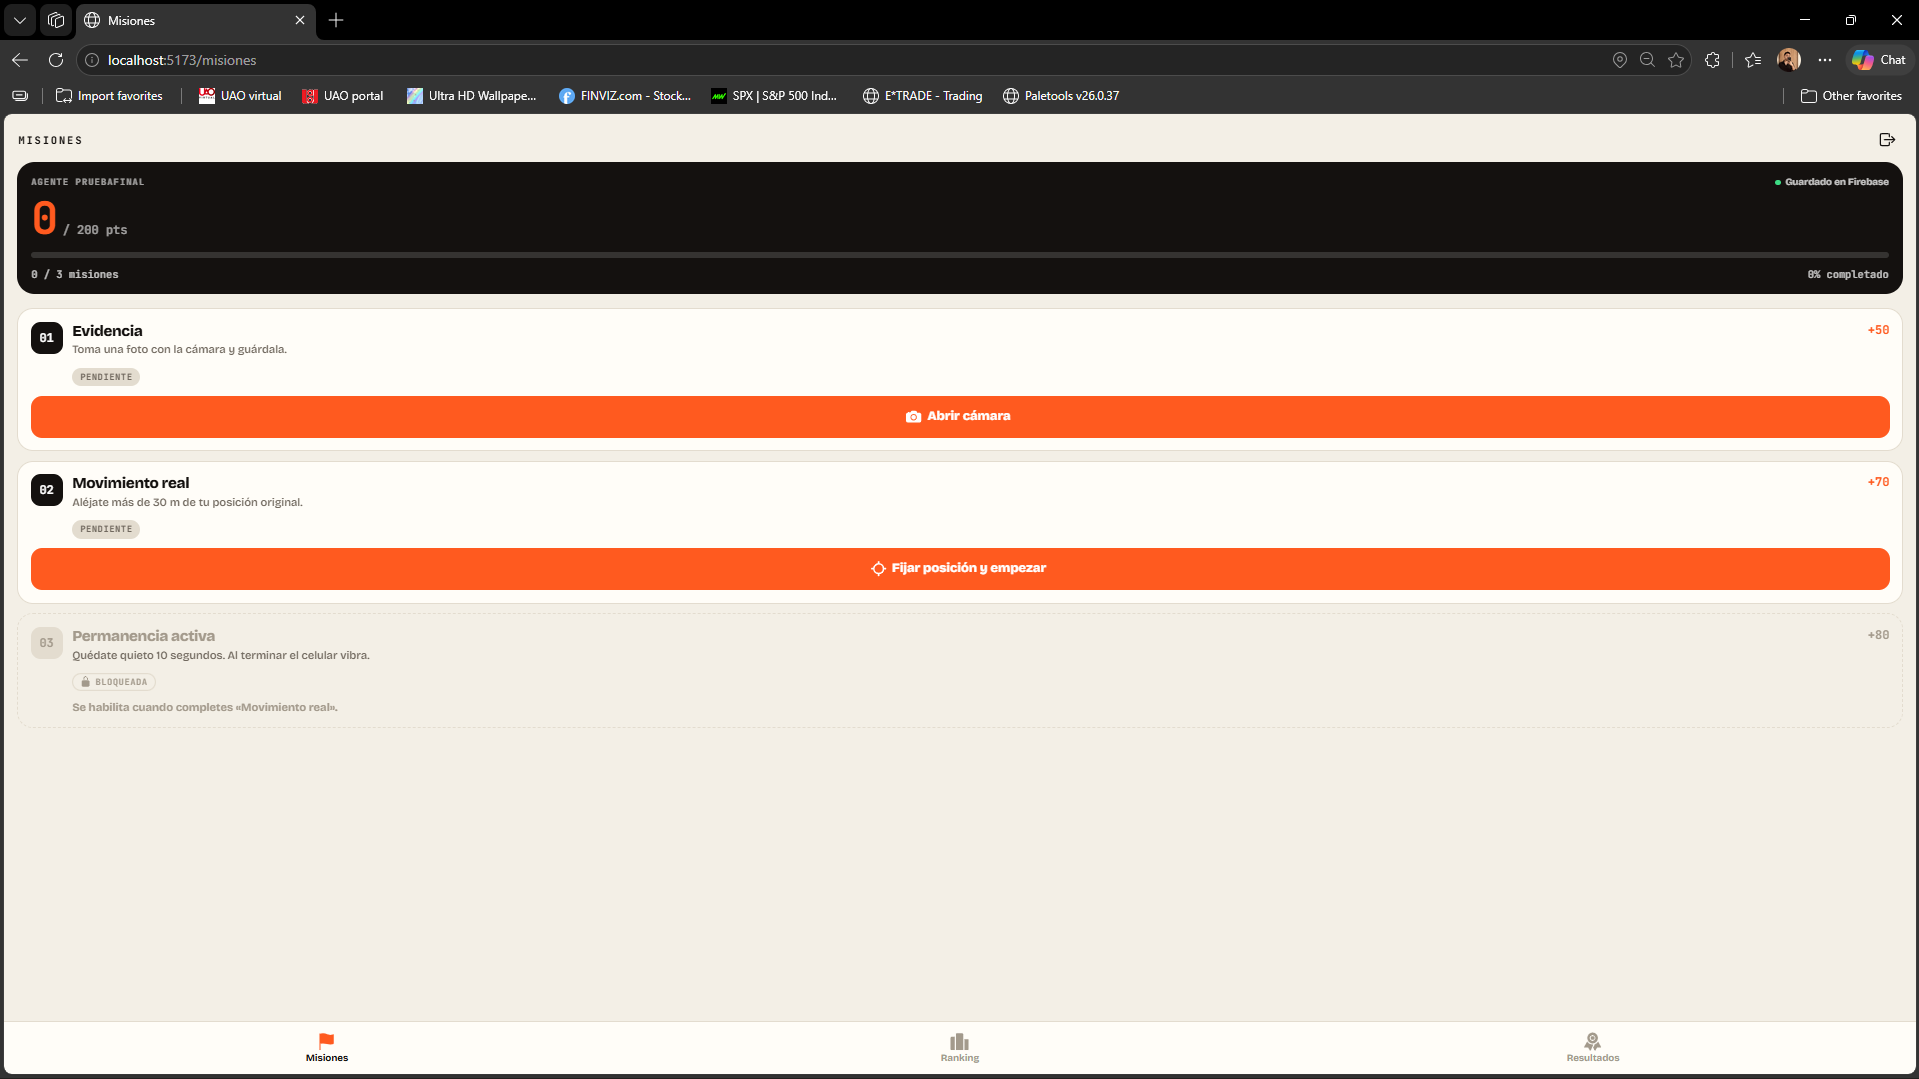
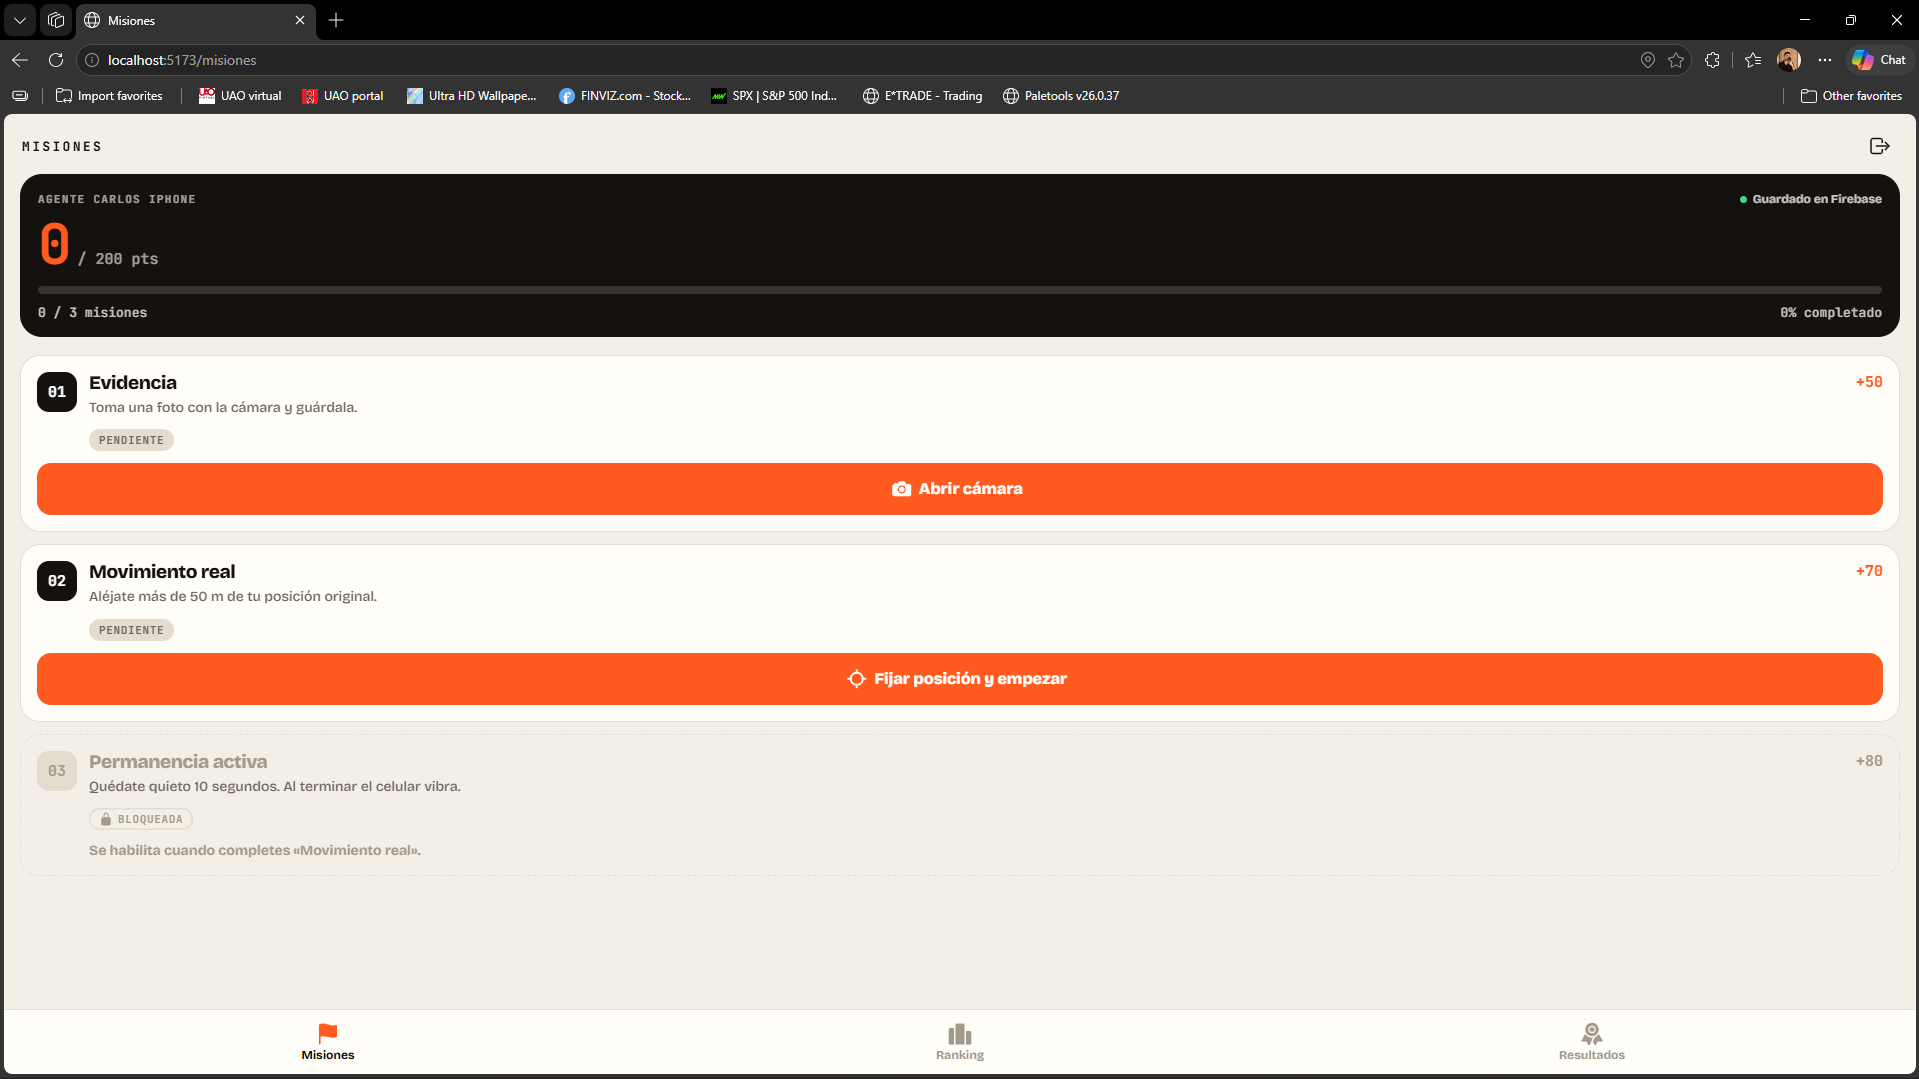
Parcial 2: app de misiones con Ionic, Capacitor y Firebase

diff --git a/parcial-2-carlos-orozco/src/hooks/useNotifications.ts b/parcial-2-carlos-orozco/src/hooks/useNotifications.ts
@@ -1,22 +1,35 @@
 import { useCallback, useEffect, useRef, useState } from 'react';
+import { Capacitor } from '@capacitor/core';
 import { LocalNotifications } from '@capacitor/local-notifications';
 
 export type NotifPermission = 'granted' | 'denied' | 'prompt' | 'unknown';
 
-// Notificaciones locales (Capacitor). En el navegador usa la Notification API.
+const isNative = Capacitor.isNativePlatform();
+const hasWebNotifications = () => typeof window !== 'undefined' && 'Notification' in window;
+
+const toPermission = (p: string): NotifPermission =>
+  p === 'granted' ? 'granted' : p === 'denied' ? 'denied' : p === 'default' || p === 'prompt' ? 'prompt' : 'unknown';
+
+/**
+ * Notificaciones locales.
+ * - App nativa (Android/iOS): @capacitor/local-notifications
+ * - Navegador: Notification API a través del service worker (/sw.js), que es lo
+ *   único que Chrome en Android permite. Si no hay SW, se intenta new Notification().
+ */
 const useNotifications = () => {
   const [permission, setPermission] = useState<NotifPermission>('unknown');
   const nextId = useRef(Math.floor(Date.now() / 1000) % 100000);
 
-  // Solo consulta el estado (no pregunta): así no se bloquea el aviso del navegador
   const refresh = useCallback(async () => {
     try {
-      const { display } = await LocalNotifications.checkPermissions();
-      setPermission(display === 'granted' ? 'granted' : display === 'denied' ? 'denied' : 'prompt');
-      return display;
+      if (isNative) {
+        const { display } = await LocalNotifications.checkPermissions();
+        setPermission(toPermission(display));
+      } else {
+        setPermission(hasWebNotifications() ? toPermission(Notification.permission) : 'unknown');
+      }
     } catch {
       setPermission('unknown');
-      return 'denied';
     }
   }, []);
 
@@ -25,28 +38,46 @@ const useNotifications = () => {
   // Debe llamarse desde un toque/clic del usuario (Chrome bloquea la petición si no)
   const requestPermission = useCallback(async () => {
     try {
-      const { display } = await LocalNotifications.requestPermissions();
-      setPermission(display === 'granted' ? 'granted' : display === 'denied' ? 'denied' : 'prompt');
-      return display === 'granted';
+      let result: NotifPermission = 'unknown';
+      if (isNative) result = toPermission((await LocalNotifications.requestPermissions()).display);
+      else if (hasWebNotifications()) result = toPermission(await Notification.requestPermission());
+      setPermission(result);
+      return result === 'granted';
     } catch {
       setPermission('unknown');
       return false;
     }
   }, []);
 
-  const notify = useCallback(async (title: string, body: string, delayMs = 0) => {
-    try {
-      const { display } = await LocalNotifications.checkPermissions();
-      if (display !== 'granted') return false;
-      await LocalNotifications.schedule({
-        notifications: [{
-          id: nextId.current++,
-          title,
-          body,
-          schedule: delayMs ? { at: new Date(Date.now() + delayMs), allowWhileIdle: true } : undefined,
-        }],
-      });
+  const showWeb = async (title: string, body: string, tag: string) => {
+    if (!hasWebNotifications() || Notification.permission !== 'granted') return false;
+    const reg = 'serviceWorker' in navigator ? await navigator.serviceWorker.getRegistration() : undefined;
+    if (reg) {
+      await reg.showNotification(title, { body, tag, icon: '/favicon.png' });
       return true;
+    }
+    new Notification(title, { body, tag });
+    return true;
+  };
+
+  const notify = useCallback(async (title: string, body: string, delayMs = 0) => {
+    const id = nextId.current++;
+    try {
+      if (isNative) {
+        const { display } = await LocalNotifications.checkPermissions();
+        if (display !== 'granted') return false;
+        await LocalNotifications.schedule({
+          notifications: [{
+            id,
+            title,
+            body,
+            schedule: delayMs ? { at: new Date(Date.now() + delayMs), allowWhileIdle: true } : undefined,
+          }],
+        });
+        return true;
+      }
+      if (delayMs) await new Promise((r) => setTimeout(r, delayMs));
+      return await showWeb(title, body, String(id));
     } catch (e) {
       console.warn('No se pudo mostrar la notificación', e);
       return false;

diff --git a/parcial-2-carlos-orozco/src/pages/Misiones.tsx b/parcial-2-carlos-orozco/src/pages/Misiones.tsx
@@ -1,4 +1,5 @@
 import { useState } from 'react';
+import { Capacitor } from '@capacitor/core';
 import { IonButton, IonContent, IonIcon, IonPage, IonSpinner } from '@ionic/react';
 import { camera, locate, logOutOutline, refresh, stopCircleOutline, walk } from 'ionicons/icons';
 import { useAuth } from '../context/AuthContext';
@@ -102,6 +103,9 @@ const MoveMission = () => {
 };
 
 /* ---------- Misión 3: Permanencia activa (acelerómetro + vibración) ---------- */
+// Safari en iPhone no tiene API de vibración; la app nativa (Capacitor Haptics) sí vibra
+const canVibrate = Capacitor.isNativePlatform() || 'vibrate' in navigator;
+
 const StillMission = () => {
   const { isCompleted, isUnlocked, stillness } = useGame();
   const done = isCompleted(3);
@@ -134,7 +138,12 @@ const StillMission = () => {
           <IonIcon slot="start" icon={walk} />Empezar a quedarme quieto
         </IonButton>
       )}
-      {done && <p className="hint ok">Aguantaste {STILL_SECONDS} segundos quieto. El celular vibró.</p>}
+      {done && (
+        <p className="hint ok">
+          Aguantaste {STILL_SECONDS} segundos quieto.{' '}
+          {canVibrate ? 'El celular vibró.' : 'Este navegador no permite vibrar (Safari en iPhone); en la app nativa sí vibra.'}
+        </p>
+      )}
       {error && <div className="form-error">{error}</div>}
     </MissionCard>
   );

diff --git a/parcial-2-carlos-orozco/src/hooks/useStillness.ts b/parcial-2-carlos-orozco/src/hooks/useStillness.ts
@@ -52,7 +52,11 @@ const useStillness = (onDone: () => void) => {
     try {
       // iOS exige pedir permiso al sensor desde un toque del usuario
       const DME = (window as unknown as { DeviceMotionEvent?: { requestPermission?: () => Promise<string> } }).DeviceMotionEvent;
-      if (DME?.requestPermission && Capacitor.getPlatform() === 'ios' && (await DME.requestPermission()) !== 'granted') {
+      // (Safari en iPhone y la app iOS). Otros navegadores no lo necesitan.
+      const isIOS = Capacitor.getPlatform() === 'ios'
+        || /iPhone|iPad|iPod/.test(navigator.userAgent)
+        || (navigator.userAgent.includes('Mac') && navigator.maxTouchPoints > 1);
+      if (isIOS && DME?.requestPermission && (await DME.requestPermission()) !== 'granted') {
         throw new Error('permiso');
       }
 
@@ -95,7 +99,7 @@ const useStillness = (onDone: () => void) => {
       }, 100);
     } catch (e) {
       console.error(e);
-      setError('No se pudo acceder al acelerómetro.');
+      setError('No se pudo acceder al acelerómetro. En iPhone toca «Permitir» cuando Safari pregunte por movimiento y orientación.');
       setStatus('error');
       void cleanup();
     }

diff --git a/parcial-2-carlos-orozco/index.html b/parcial-2-carlos-orozco/index.html
@@ -4,6 +4,10 @@
     <meta charset="UTF-8" />
     <meta name="viewport" content="width=device-width, initial-scale=1.0, viewport-fit=cover" />
     <meta name="theme-color" content="#14110f" />
+    <link rel="manifest" href="/manifest.json" />
+    <!-- iPhone: al "Agregar a pantalla de inicio" se abre como app y puede recibir notificaciones -->
+    <meta name="apple-mobile-web-app-capable" content="yes" />
+    <meta name="apple-mobile-web-app-title" content="Misiones" />
     <link rel="preconnect" href="https://fonts.googleapis.com" />
     <link rel="preconnect" href="https://fonts.gstatic.com" crossorigin />
     <link href="https://fonts.googleapis.com/css2?family=Bricolage+Grotesque:opsz,wght@12..96,500;12..96,700;12..96,800&family=JetBrains+Mono:wght@500;700&display=swap" rel="stylesheet" />

diff --git a/parcial-2-carlos-orozco/src/main.tsx b/parcial-2-carlos-orozco/src/main.tsx
@@ -1,10 +1,16 @@
 import { StrictMode } from 'react';
 import { createRoot } from 'react-dom/client';
 import { defineCustomElements } from '@ionic/pwa-elements/loader';
+import { Capacitor } from '@capacitor/core';
 import App from './App.tsx';
 
 // Necesario para que la cámara funcione en el navegador (web)
 defineCustomElements(window);
+
+// En la versión web (navegador del celular) las notificaciones salen por un service worker
+if (!Capacitor.isNativePlatform() && 'serviceWorker' in navigator) {
+  navigator.serviceWorker.register('/sw.js').catch((e) => console.warn('SW no registrado', e));
+}
 
 createRoot(document.getElementById('root')!).render(
   <StrictMode>

diff --git a/parcial-2-carlos-orozco/public/sw.js b/parcial-2-carlos-orozco/public/sw.js
@@ -1,0 +1,13 @@
+// Service worker mínimo: Chrome en Android solo deja mostrar notificaciones
+// desde un service worker (registration.showNotification), no con new Notification().
+self.addEventListener('install', () => self.skipWaiting());
+self.addEventListener('activate', (e) => e.waitUntil(self.clients.claim()));
+self.addEventListener('notificationclick', (e) => {
+  e.notification.close();
+  e.waitUntil(
+    self.clients.matchAll({ type: 'window', includeUncontrolled: true }).then((list) => {
+      if (list[0]) return list[0].focus();
+      return self.clients.openWindow('/misiones');
+    }),
+  );
+});

diff --git a/parcial-2-carlos-orozco/src/missions.ts b/parcial-2-carlos-orozco/src/missions.ts
@@ -1,7 +1,7 @@
 import type { MissionDef, MissionState, Progress } from './types';
 
 // Reglas de cada misión (fáciles de ajustar)
-export const DISTANCE_GOAL_M = 30;   // Misión 2: "distancia > 30m"
+export const DISTANCE_GOAL_M = 50;   // Misión 2: "moverse 50 metros" (también cumple "distancia > 30m")
 export const MAX_GPS_ACCURACY_M = 35; // lecturas con más error que esto no cuentan
 export const STILL_SECONDS = 10;     // Misión 3
 

diff --git a/parcial-2-carlos-orozco/README.md b/parcial-2-carlos-orozco/README.md
@@ -19,10 +19,10 @@ App en Ionic + React donde usuarios reales (Firebase Auth) desbloquean y complet
 | # | Misión | Lógica real | Puntos |
 |---|---|---|---|
 | 01 | **Evidencia** | Abre la cámara (`@capacitor/camera`). Se completa al **guardar** la imagen. | 50 |
-| 02 | **Movimiento real** | Guarda la posición original y escucha el GPS con `watchPosition`. Se completa cuando la distancia (Haversine) es **> 30 m** con una lectura de precisión ≤ 35 m. | 70 |
+| 02 | **Movimiento real** | Guarda la posición original y escucha el GPS con `watchPosition`. Se completa cuando la distancia (Haversine) llega a **50 m** (cumple "moverse 50 metros" y "distancia > 30m") con una lectura de precisión ≤ 35 m. | 70 |
 | 03 | **Permanencia activa** | Bloqueada hasta completar la 02. Escucha el acelerómetro (`@capacitor/motion`); si te mueves, el conteo se reinicia. A los **10 s quieto vibra** (`@capacitor/haptics`). No bloquea la pantalla y pide *Wake Lock* para que no se apague. | 80 |
 
-Los umbrales (30 m, 35 m de precisión, 10 s) están en `src/missions.ts`.
+Los umbrales (50 m, 35 m de precisión, 10 s) están en `src/missions.ts`.
 
 ## Requisitos del parcial
 
@@ -120,7 +120,7 @@ src/
 
 | Misión 1 · Evidencia | Misión 2 · Movimiento | Misión 3 · Permanencia |
 |---|---|---|
-| ![Foto](screenshots/04-mision-foto.png) | ![Movimiento](screenshots/05-mision-movimiento.png) | ![Quieto](screenshots/06-mision-quieto.png) |
+| ![Foto](screenshots/04-mision-foto.png) | ![Movimiento](screenshots/05-mision-movimiento.png) | ![Quieto](screenshots/06-mision-quieto.png) ![Quieto 2](screenshots/06.1-mision-quieto.png) |
 
 | Misiones completas | Notificación | Ranking |
 |---|---|---|
@@ -129,3 +129,16 @@ src/
 | Resultados | Firestore |
 |---|---|
 | ![Resultados](screenshots/10-resultados.png) | ![Firestore](screenshots/11-firestore.png) |
+
+### Prueba en iPhone (Safari, por túnel de Cloudflare)
+
+| Cámara | Permiso de ubicación | Acelerómetro detecta movimiento |
+|---|---|---|
+| ![Cámara](screenshots/12-iphone-camara.png) | ![Ubicación](screenshots/13-iphone-permiso-ubicacion.png) | ![Te moviste](screenshots/14-iphone-te-moviste.png) |
+
+| Misiones completas | Notificaciones del sistema |
+|---|---|
+| ![Completas](screenshots/15-iphone-misiones-completas.png) | ![Notificaciones](screenshots/16-iphone-notificaciones.png) |
+
+> **Nota sobre la vibración en iPhone:** Safari no implementa la API de vibración (restricción de Apple), así que desde el navegador del iPhone la Misión 3 se completa sin vibrar. En la app nativa (`@capacitor/haptics`) y en Chrome de Android sí vibra. Las notificaciones web en iPhone funcionan con la app agregada a la pantalla de inicio (`manifest.json` + service worker `public/sw.js`).
+
